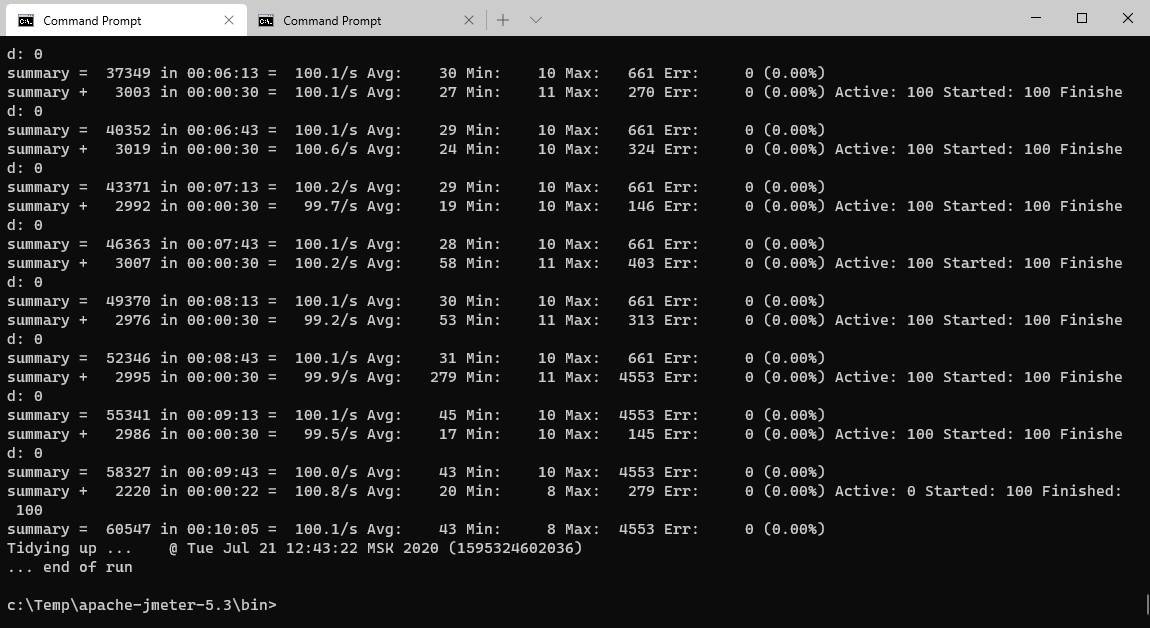
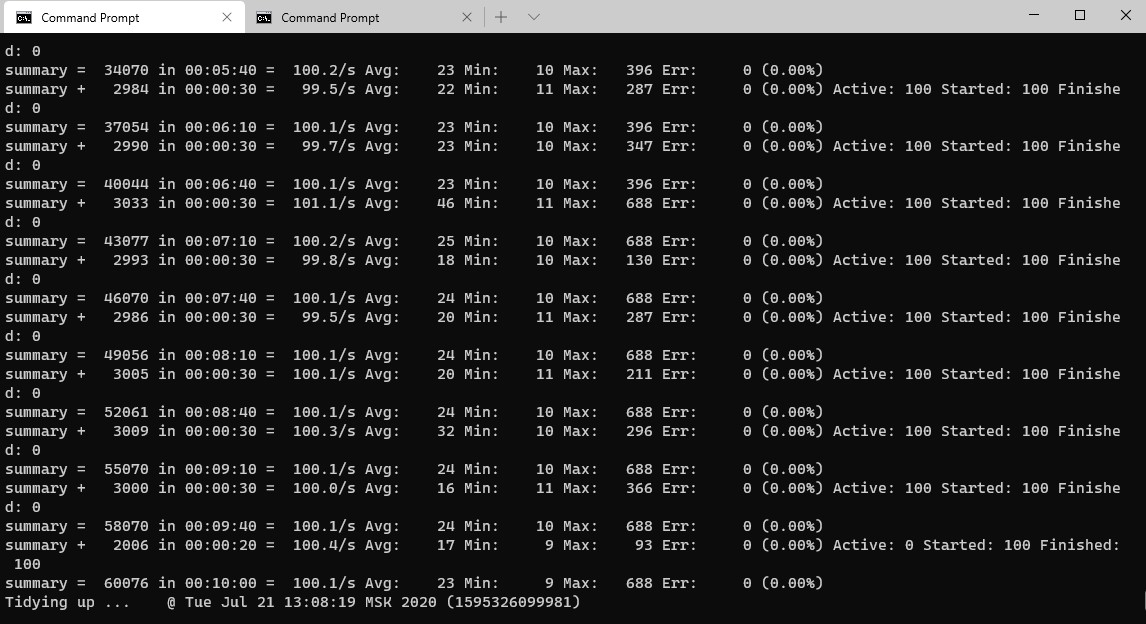
docs& test update

diff --git a/README.md b/README.md
@@ -13,9 +13,9 @@
 |                   |Нагрузочное тестирование. создание 10000 счетов в 200 конкурирующих пользователей. Время тестирования 5 минут|Средний throughput при постоянной загрузке >=100. Корректность определяется как сумма баланса по всем счетам равной сумме арифметической прогрессии 1 000, 2 000,...,10 000 000|
 |Перевод со счета на счет|Перевод при достаоточном балансе|200, в теле ответа номера счетов с актуальным балансом после выполения операции и признак успешности true|
 |                        |Перевод при недостаточном балансе|200, в теле ответа номера счетов с актуальным балансом и признак успешности false|
-|                        |Перевод с\на несуществующий счет|400, сообщение "One of the accounts not exist"|
-|                        |Перевод с одного счета на тотже самый| 200, в теле ответа номера счетов с актуальным балансом и признак успешности false. Баланс не изменился|
-|                        |Нагрузочное тестирование. Перевод с\на одной и той же пары счетов 1, при исходной сумме баланса 1000. при 500 конкурирующих пользователях в течении 60 минут. Т.е. в каждый момент, времени каждый поток делает перевод 1 на ту же самую пару счетов в одном направлении, что и соседний поток|Вся сумма переведена с одного счета на другой. % ошибок 0%. Средний throughput при постоянной загрузке >=100. Ответ 200. После обнуления счета источника остатки на счетах и признак успешности перевода false Проверка корректности по сумме по завершении теста.|
+|                        |Перевод с\на несуществующий счет|404, сообщение "One of the accounts not exist"|
+|                        |Перевод с одного счета на тот же самый| 200, в теле ответа номера счетов с актуальным балансом и признак успешности false. Баланс не изменился|
+|                        |Нагрузочное тестирование. Перевод с\на одной и той же пары счетов |За период времени 600 секунд необходимо сделать перевод 60000. 100 конкурентных пользователей делают перевод 1. По завершении 600 секундного интервала теста вся сумма должна быть переведена|
 |                        |Нагрузочное тестирование. Перевод с\на случайно выбранную пару счетов из 10000 на протяжении 60 минут. На случайно выбранную сумму из диапазона от 0 до 1000 включительно. 500 пользователей.|Ответы 200 с признаком успешности\не успешности. Сумма на всех счетах после завершения теста равна сумме арифметической прогрессии 1 000, 2 000,...,10 000 000. Процент ощибок 0%|
 |Прочее                   |Корректность формата запроса|400, Bad request| 
 
